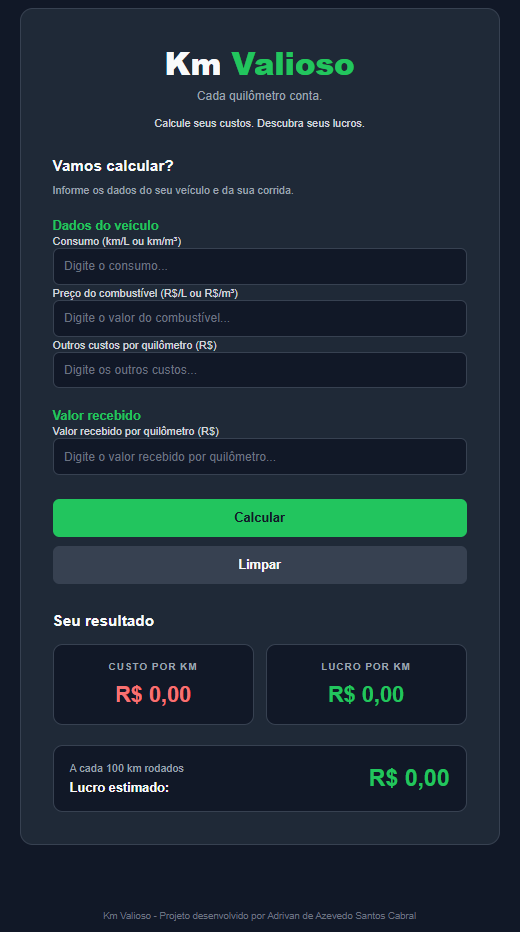
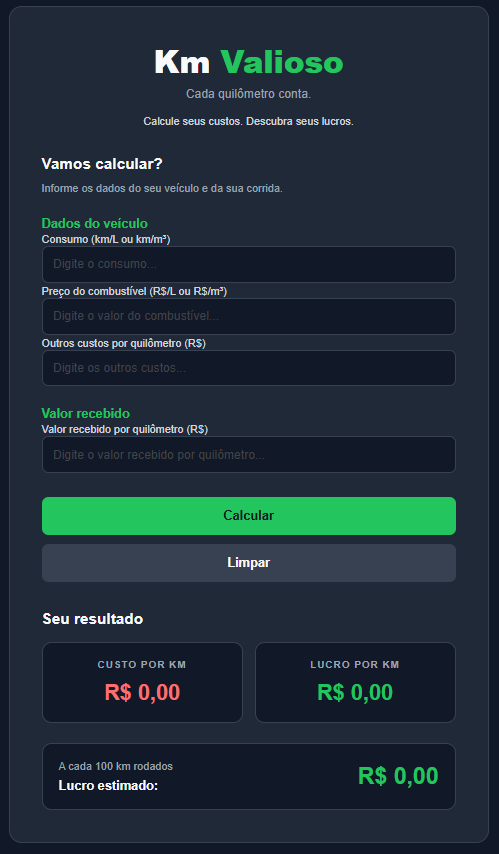
docs: atualiza README

diff --git a/README.md b/README.md
@@ -25,10 +25,10 @@ O Km Valioso foi desenvolvido com o objetivo de facilitar o controle dos custos 
 - [x] Campo para informar outros custos por quilômetro.
 - [x] Campo para informar o valor recebido por quilômetro.
 - [x] Layout responsivo.
-- [ ] Cálculo automático do custo por quilômetro.
-- [ ] Cálculo automático do lucro por quilômetro.
-- [ ] Estimativa de lucro a cada 100 km rodados.
-- [ ] Limpeza dos campos e resultados.
+- [x] Cálculo automático do custo por quilômetro.
+- [x] Cálculo automático do lucro por quilômetro.
+- [x] Estimativa de lucro a cada 100 km rodados.
+- [x] Limpeza dos campos e resultados.
 
 
 ---
@@ -44,6 +44,7 @@ O Km Valioso foi desenvolvido com o objetivo de facilitar o controle dos custos 
 ## 📸 Prévia do projeto
 
 ![KmValioso](screenshots/kmValioso.png)
+![KmValioso2](screenshots/kmvalioso2.png)
 
 ---
 
